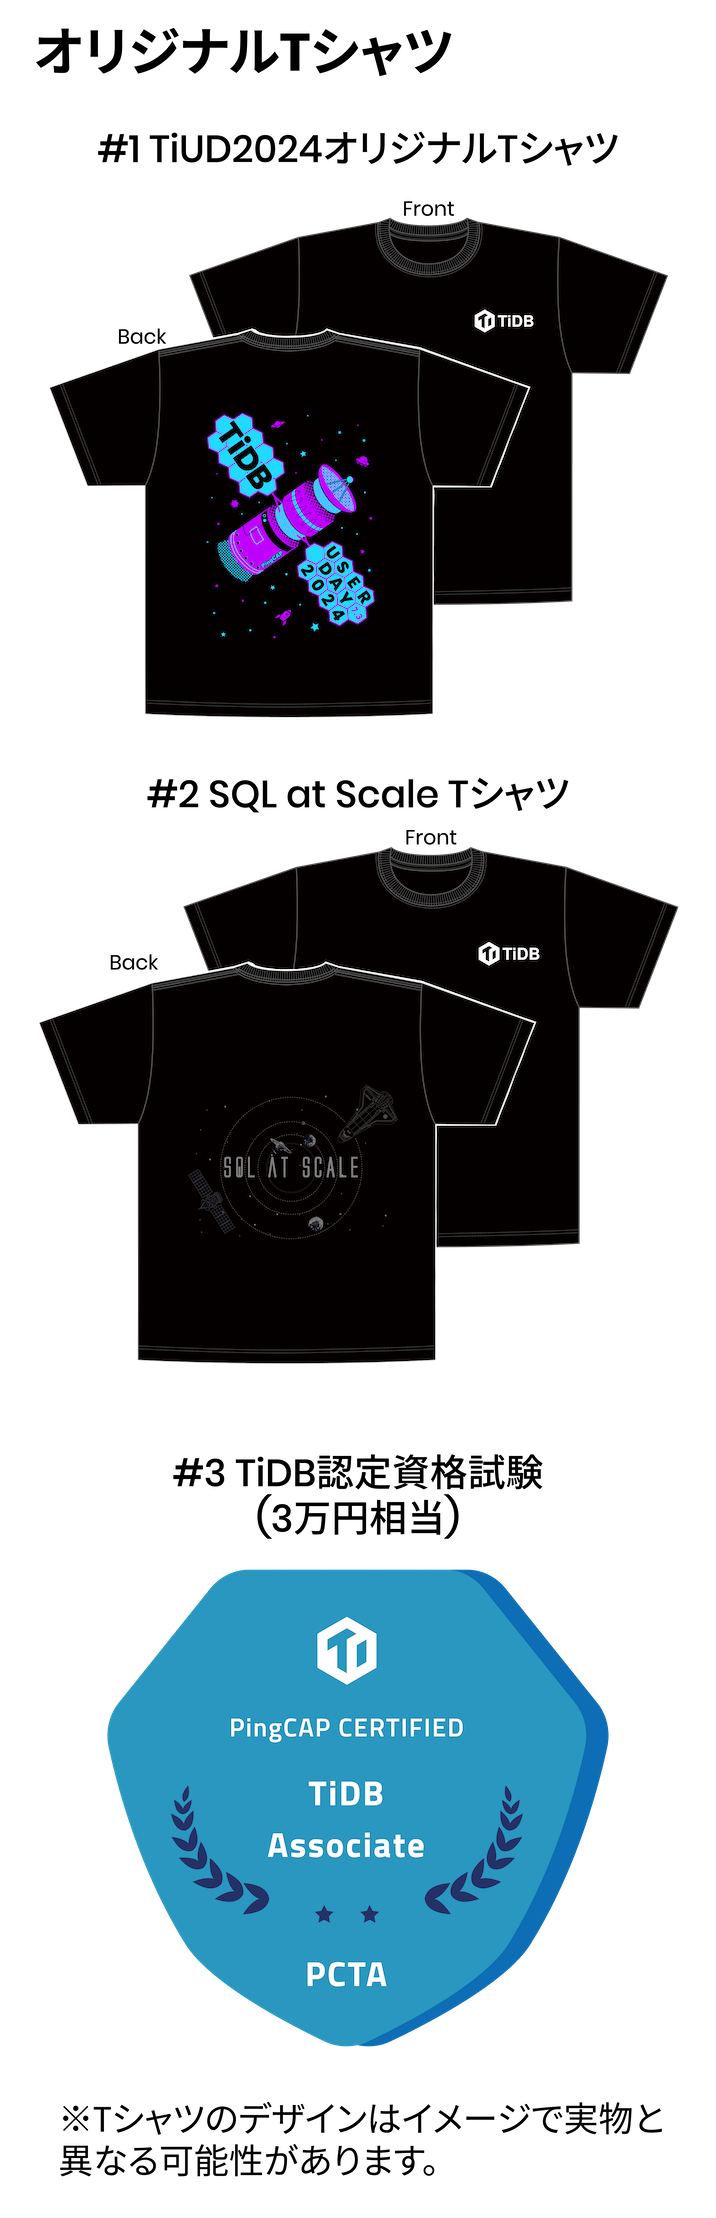
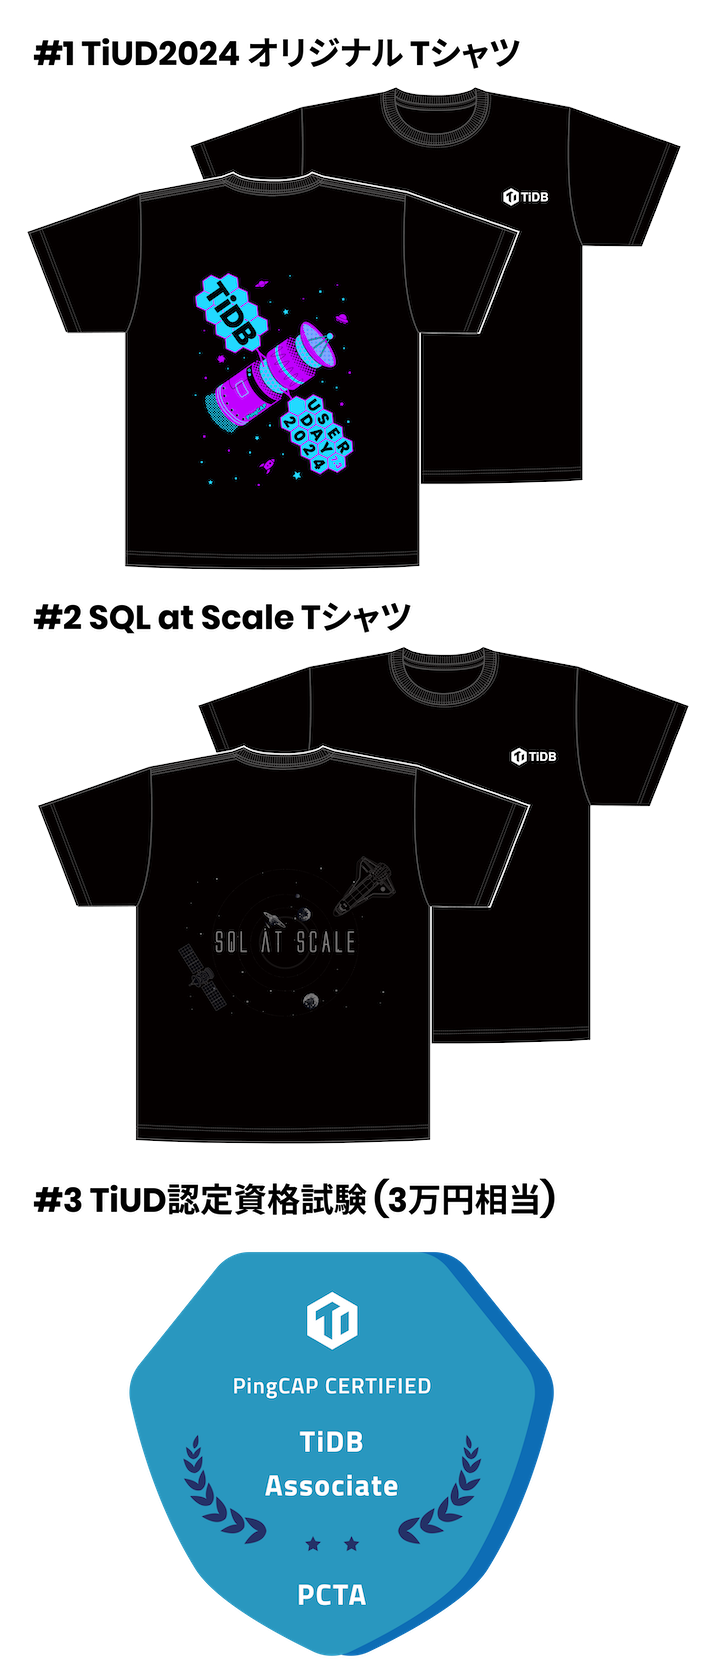
feat: update campaign_item_sp image

Changed region(s): [[0.0307, 0.0, 0.9525, 0.9958], [0.0307, 0.6846, 0.1229, 0.7469]]

diff --git a/pingcap-jp/templates/page-tidb-user-day.php b/pingcap-jp/templates/page-tidb-user-day.php
@@ -842,16 +842,13 @@ get_header();
                 <div class="l-content is-w-1172 tw-mt-8 md:tw-mt-14">
                     <div class="l-inner">
                         <div class="p-present">
-                            <h3 class="a-heading ">
-                                <span class="a-heading_text-one  tw-text-[2.4rem] tw-text-center md:tw-text-left tw-leading-normal">オリジナルTシャツ</span>
-                            </h3>
-                            <div class="tw-flex tw-justify-center tw-mt-3">
+                            <div class="tw-flex tw-justify-center">
                                 <div class="a-image ">
                                     <picture>
                                         <source media="(min-width: 751px)" type="image/webp" srcset="<?php echo esc_url(get_template_directory_uri()); ?>/tidb-user-day/assets/img/campaign_item.webp" width="1172" height="502">
-                                        <source media="(max-width: 750px)" type="image/webp" srcset="<?php echo esc_url(get_template_directory_uri()); ?>/tidb-user-day/assets/img/campaign_item_sp.webp" width="716" height="2218">
+                                        <source media="(max-width: 750px)" type="image/webp" srcset="<?php echo esc_url(get_template_directory_uri()); ?>/tidb-user-day/assets/img/campaign_item_sp.webp" width="716" height="1671">
                                         <source media="(min-width: 751px)" type="image/png" srcset="<?php echo esc_url(get_template_directory_uri()); ?>/tidb-user-day/assets/img/campaign_item.png" width="1172" height="502">
-                                        <source media="(max-width: 750px)" type="image/png" srcset="<?php echo esc_url(get_template_directory_uri()); ?>/tidb-user-day/assets/img/campaign_item_sp.png" width="716" height="2218">
+                                        <source media="(max-width: 750px)" type="image/png" srcset="<?php echo esc_url(get_template_directory_uri()); ?>/tidb-user-day/assets/img/campaign_item_sp.png" width="716" height="1671">
                                         <img src="<?php echo esc_url(get_template_directory_uri()); ?>/tidb-user-day/assets/img/campaign_item.png" class="" width="1172" height="502" alt="登録キャンペーン" loading="lazy" decoding="async">
                                     </picture>
                                 </div>
